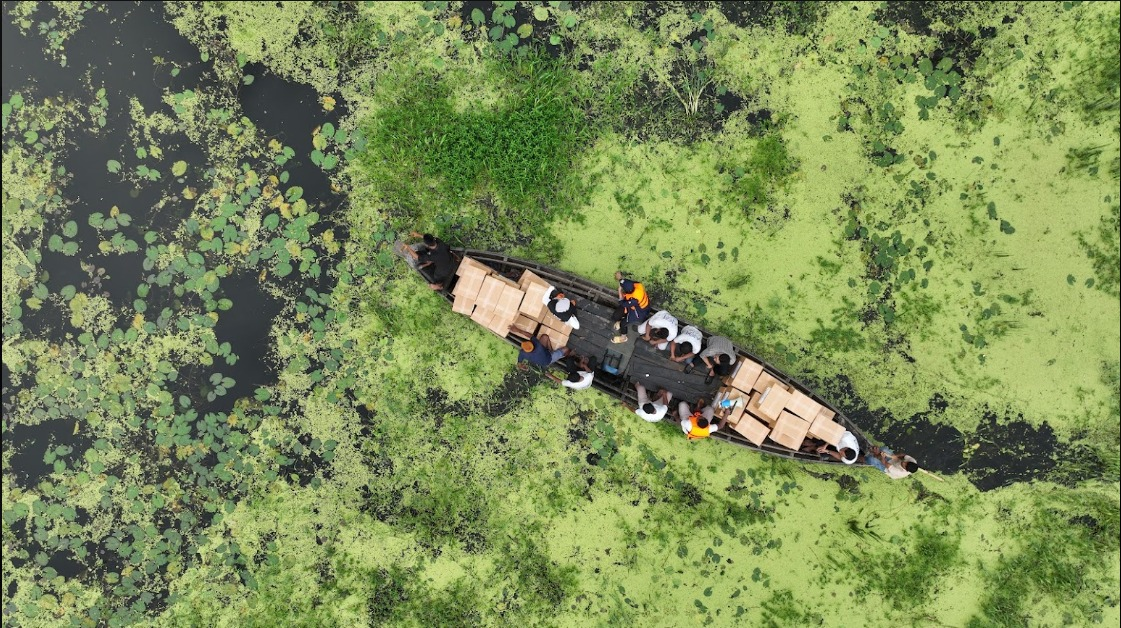
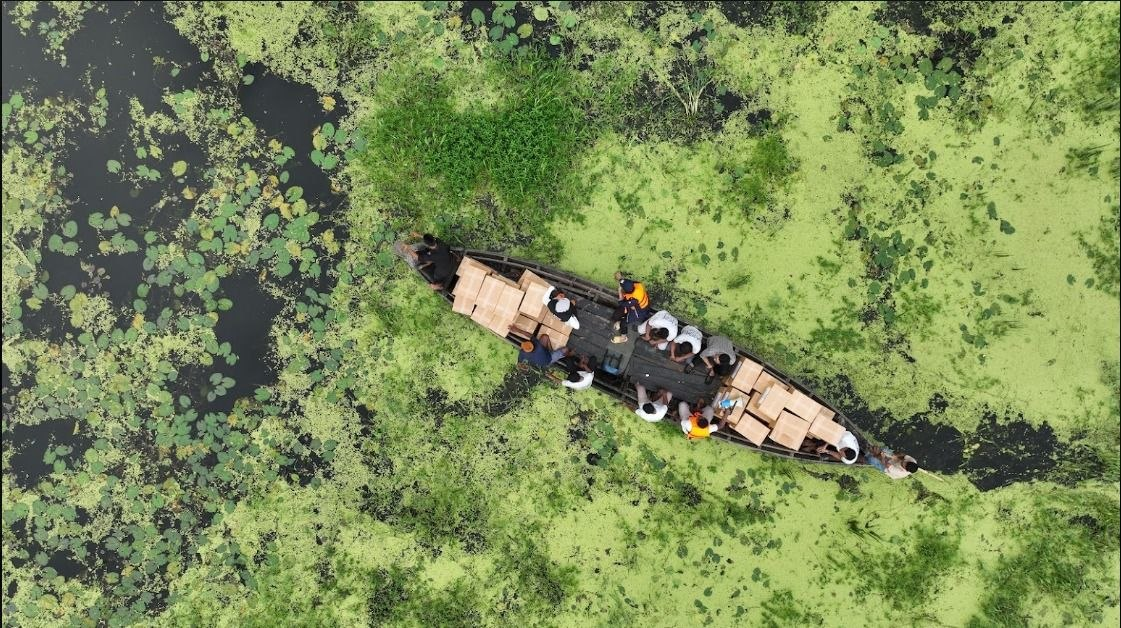
fix: Use user's hero slide 1 image and fix hero slide 3 cta_href

diff --git a/app/seed.py b/app/seed.py
@@ -107,7 +107,7 @@ async def seed_data():
                     "headline": "Clean Water & Life-Saving Medical Care",
                     "badge_text": "Healthcare Initiative",
                     "cta_label": "Learn More",
-                    "cta_href": "/campaigns/medicine-campaign",
+                    "cta_href": "/campaigns/free-mobile-clinic",
                     "image_key": f"{base_url}/static/hero-slides/hero-image-3.jpeg",
                     "sort_order": 3,
                     "active": True,

diff --git a/seed.py b/seed.py
@@ -113,7 +113,7 @@ async def seed_data():
                     "headline": "Clean Water & Life-Saving Medical Care",
                     "badge_text": "Healthcare Initiative",
                     "cta_label": "Learn More",
-                    "cta_href": "/campaigns/medicine-campaign",
+                    "cta_href": "/campaigns/free-mobile-clinic",
                     "image_key": f"{base_url}/static/hero-slides/hero-image-3.jpeg",
                     "sort_order": 3,
                     "active": True,
